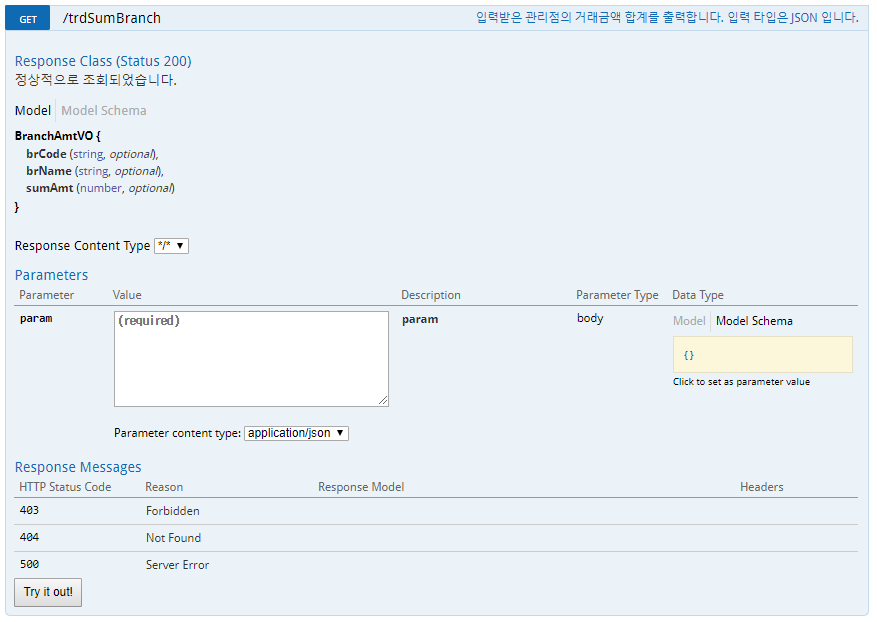
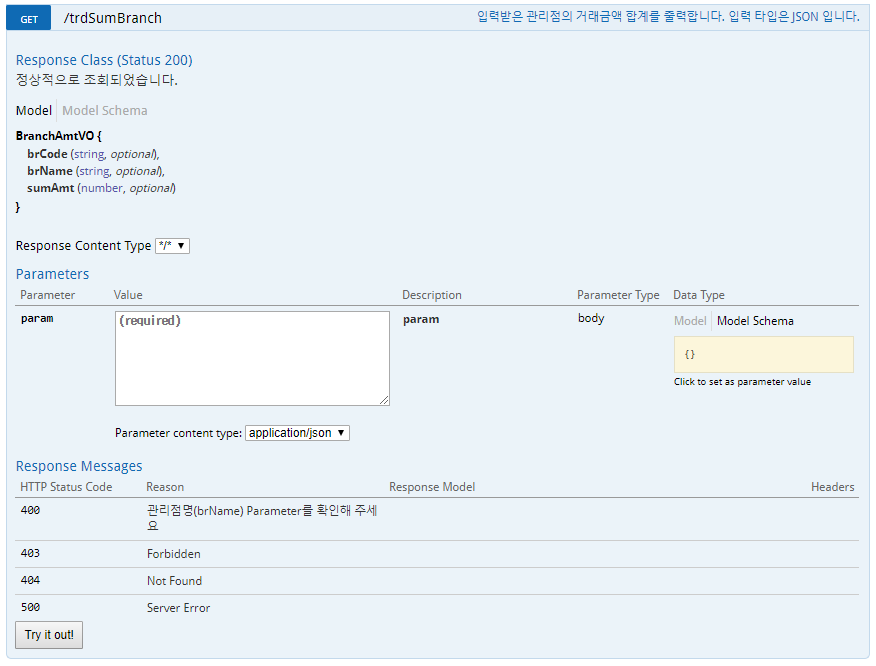
REAEME 수정

Changed region(s): [[0.0, 0.0, 1.0, 0.9775]]

diff --git a/src/main/java/com/kakaosecurities/work/controller/CustTargetApiController.java b/src/main/java/com/kakaosecurities/work/controller/CustTargetApiController.java
@@ -84,6 +84,7 @@ public class CustTargetApiController {
 
     @ApiResponses(value = {
             @ApiResponse(code = 200, message = "정상적으로 조회되었습니다."),
+            @ApiResponse(code = 400, message = "관리점명(brName) Parameter를 확인해 주세요"),
             @ApiResponse(code = 403, message = "Forbidden"),
             @ApiResponse(code = 404, message = "Not Found"),
             @ApiResponse(code = 500, message = "Server Error")

diff --git a/README.md b/README.md
@@ -66,8 +66,24 @@
 
 
 ## API 명세
-![GetApi1](./image/1.PNG)
+** Context-path : /kakaoWork
+** localhost:8080/kakaoWork/swagger-ui.html  에서 캡처
+![GetApiSummary](./image/1.PNG)
+![GetApi1](./image/api1.PNG)
+![GetApi2](./image/api2.PNG)
+![GetApi3](./image/api3.PNG)
+![GetApi4](./image/api4.PNG)
+
+** mergeDept Api는 지점 통폐합 테스트를 하기 위한 Api (Api Test 요구사항)
+** MySQL 설정 후 localhost:8080/kakaoWork/swagger-ui.html 상세 참조
+    (DB Schema : kakaosecuritiesdb / id : kakao / password : kakao)
 
 
 ## 문제해결 (요구사항 분석 및 설계)
-1. Param 없는 3개의 조회는 GET 방식 Api / Param  있는 1개의 조회는 post
+1. 4개의 요청은 입출력이 모두 JSOn 이므로 Get 방식의 Rest Api 로 구현.
+2. Client - Controller - Service - Mapper(DAO) - DB (MVC 계층 설계 및 구현)
+3. 유닛 테스트 구현을 위한 WebMvtTest 채택 및 각 기능 검증
+4. 4번 API의 Exception 발생 시, Output Model 변경을 위해 @ControllerAdvice 어노테이션을 사용 및 Custom Exception throw
+4. 4번 API의 지점 통폐합 Test를 위한 GET Api 제작 (mergeBranch) 
+    - Api 호출 시, 관리점이 분당점인 계좌를 판교점으로 UPDATE
+5. Api Doc 제작을 위한 Swagger 플러그인 사용
